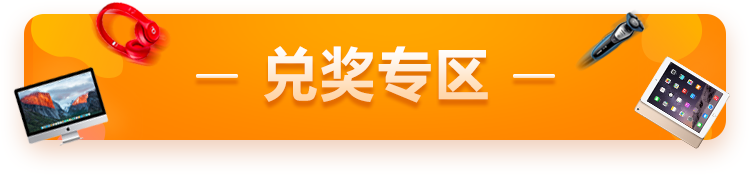
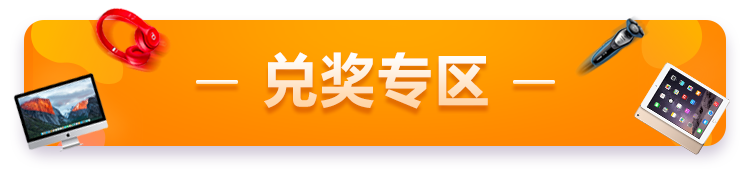
vip api integration

diff --git a/public/client/js/vip-node.js b/public/client/js/vip-node.js
@@ -39,6 +39,7 @@ $(function () {
     if(wechat_status == 0 && wechat_name != null) {
 
         getToken();
+        getProduct();
         closeModal();
 
         ifvisible.on("wakeup", function(){
@@ -265,6 +266,53 @@ function getToken(){
         $(".loading").fadeOut("slow");
     }
     
+}
+
+function getProduct(){
+    $.getJSON( "/api/get-product-list", function( data ) {
+        console.log(data);
+
+        var html = '';
+
+        $.each(data.records, function(i, item) {
+            
+            if(i % 2 === 0){
+                html += '<div class="redeem-prize">' + 
+                            '<div class="left-box">' +
+                            '<div class="prize-box">' +
+                                '<div class="image-wrapper">' +
+                                    '<img src="'+ item.picture_url +'">' +
+                                '</div>' +
+                                '<div class="redeem-product">'+ item.name +'</div>' +
+                                '<div class="redeem-details">' +
+                                    '<div class="redeem-price">'+ Math.ceil(item.price) +' <span class="redeem-currency">金币</span></div>' +
+                                    '<div class="redeem-button-wrapper">' +
+                                        '<div class="redeem-button">兑换</div>' +
+                                    '</div>' +
+                                '</div>' +
+                            '</div>' +
+                        '</div>';
+            } else {
+                html += '<div class="right-box">' +
+                            '<div class="prize-box">' +
+                                '<div class="image-wrapper">' +
+                                    '<img src="'+ item.picture_url +'">' +
+                                '</div>' +
+                                '<div class="redeem-product">'+ item.name +'</div>' +
+                                '<div class="redeem-details">' +
+                                    '<div class="redeem-price">'+ Math.ceil(item.price) +' <span class="redeem-currency">金币</span></div>' +
+                                    '<div class="redeem-button-wrapper">' +
+                                        '<div class="redeem-button">兑换</div>' +
+                                    '</div>' +
+                                '</div>' +
+                            '</div>' +
+                        '</div>' +
+                    '</div>';
+            }    
+        });
+
+        $('.redeem-prize-wrapper').html(html);
+    });
 }
 
 function resetTimer(){

diff --git a/public/client/css/game-node.css b/public/client/css/game-node.css
@@ -9,19 +9,19 @@ body{
 }
 
 .card-flex .cardBody {
-	background-image: url("/client/images/wheel/background_game.jpg");
-    background-repeat: no-repeat;
-    background-size: 100% auto;
-    background-position: center top;
-    background-attachment: fixed;
-    background-color: #af5bf5;
+	
 }
 
 .full-height {
 	padding-top: 10px;
     margin: 0 auto;    
     position: relative;
-    background: none;
+    background-image: url("/client/images/wheel/background_game.jpg");
+    background-repeat: no-repeat;
+    background-size: 100% auto;
+    background-position: center top;
+    background-attachment: scroll;
+    background-color: #8c36d9;
 }
 
 .information-table {

diff --git a/public/client/css/vip-node.css b/public/client/css/vip-node.css
@@ -169,9 +169,8 @@
 }
 
 .redeem-banner img {
-	width: 100%;
-	height: 100%;
-
+	width: 105%;
+	margin-left: -10px;
 }
 
 .redeem-prize .col-xs-6 {
@@ -183,6 +182,8 @@
 	width: 50%;
 	padding-right: 5px;
 	padding-bottom: 10px;
+	position: relative;
+	display: table;
 }
 
 .right-box {
@@ -190,6 +191,8 @@
 	width: 50%;
 	padding-left: 5px;
 	padding-bottom: 10px;
+	position: relative;
+	display: table;
 }
 
 .prize-box {
@@ -210,7 +213,6 @@
 	margin: 15px auto;
 	width: 100%;
 	height: 100%;
-
 }
 
 .redeem-product {
@@ -255,7 +257,7 @@
 }
 
 .redeem-details {
-	overflow: auto;
+	overflow: hidden;
 	height: 20px;
 	margin-bottom: 10px;
 }

diff --git a/resources/views/staradmin/client/vip-node.blade.php b/resources/views/staradmin/client/vip-node.blade.php
@@ -371,98 +371,7 @@
 			<img src="{{ asset('/client/images/vip/redeem-banner.png') }}" alt="share">
 		</div>
 
-		<div class="redeem-prize">
-			<div class="left-box">
-				<div class="prize-box">
-					<div class="image-wrapper">
-						<img src="{{ asset('/client/images/vip/prize_1.png') }}">
-					</div>
-					<div class="redeem-product">iPhone X 256G全网通智能手机</div>
-					<div class="redeem-details">
-						<div class="redeem-price">7500 <span class="redeem-currency">金币</span></div>
-						<div class="redeem-button-wrapper">
-							<div class="redeem-button">兑换</div>
-						</div>
-					</div>
-				</div>
-			</div>
-			<div class="right-box">
-				<div class="prize-box">
-					<div class="image-wrapper">
-						<img src="{{ asset('/client/images/vip/prize_2.png') }}">
-					</div>
-					<div class="redeem-product">Apple/苹果iPad Air 10.5英寸智能平板电脑</div>
-					<div class="redeem-details">
-						<div class="redeem-price">7500 <span class="redeem-currency">金币</span></div>
-						<div class="redeem-button-wrapper">
-							<div class="redeem-button">兑换</div>
-						</div>
-					</div>
-				</div>
-			</div>
-		</div>
-
-		<div class="redeem-prize">
-			<div class="left-box">
-				<div class="prize-box">
-					<div class="image-wrapper">
-						<img src="{{ asset('/client/images/vip/prize_3.png') }}">
-					</div>
-					<div class="redeem-product">iPhone X 256G全网通智能手机</div>
-					<div class="redeem-details">
-						<div class="redeem-price">7500 <span class="redeem-currency">金币</span></div>
-						<div class="redeem-button-wrapper">
-							<div class="redeem-button">兑换</div>
-						</div>
-					</div>
-				</div>
-			</div>
-			<div class="right-box">
-				<div class="prize-box">
-					<div class="image-wrapper">
-						<img src="{{ asset('/client/images/vip/prize_4.png') }}">
-					</div>
-					<div class="redeem-product">Apple/苹果iPad Air 10.5英寸智能平板电脑</div>
-					<div class="redeem-details">
-						<div class="redeem-price">7500 <span class="redeem-currency">金币</span></div>
-						<div class="redeem-button-wrapper">
-							<div class="redeem-button">兑换</div>
-						</div>
-					</div>
-				</div>
-			</div>
-		</div>
-
-		<div class="redeem-prize">
-			<div class="left-box">
-				<div class="prize-box">
-					<div class="image-wrapper">
-						<img src="{{ asset('/client/images/vip/prize_5.png') }}">
-					</div>
-					<div class="redeem-product">iPhone X 256G全网通智能手机</div>
-					<div class="redeem-details">
-						<div class="redeem-price">7500 <span class="redeem-currency">金币</span></div>
-						<div class="redeem-button-wrapper">
-							<div class="redeem-button">兑换</div>
-						</div>
-					</div>
-				</div>
-			</div>
-			<div class="right-box">
-				<div class="prize-box">
-					<div class="image-wrapper">
-						<img src="{{ asset('/client/images/vip/prize_6.png') }}">
-					</div>
-					<div class="redeem-product">Apple/苹果iPad Air 10.5英寸智能平板电脑</div>
-					<div class="redeem-details">
-						<div class="redeem-price">7500 <span class="redeem-currency">金币</span></div>
-						<div class="redeem-button-wrapper">
-							<div class="redeem-button">兑换</div>
-						</div>
-					</div>
-				</div>
-			</div>
-		</div>
+		<div class="redeem-prize-wrapper"></div>
 		<div style="clear: both"></div>
 
 		<div class="redeem-info">
